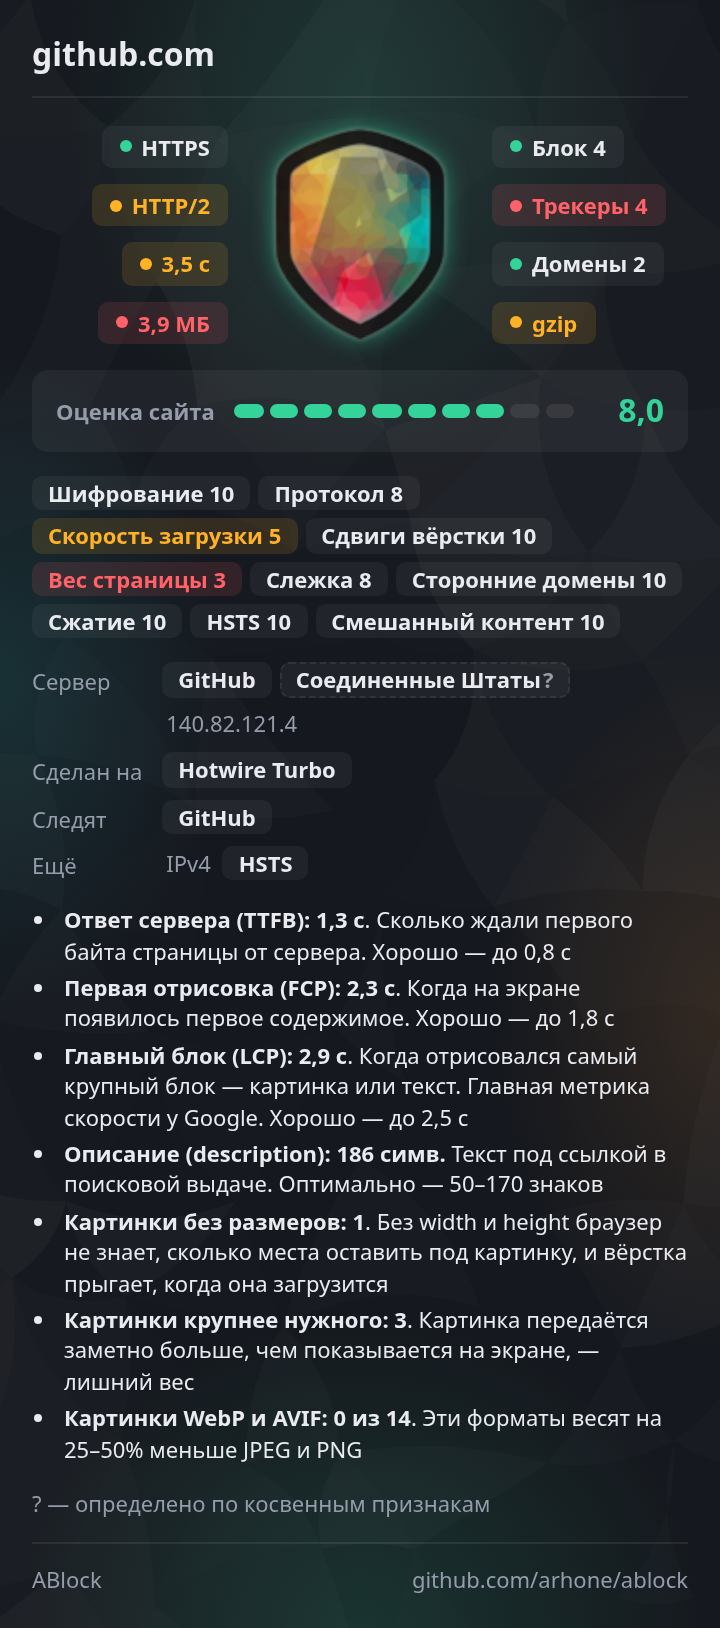
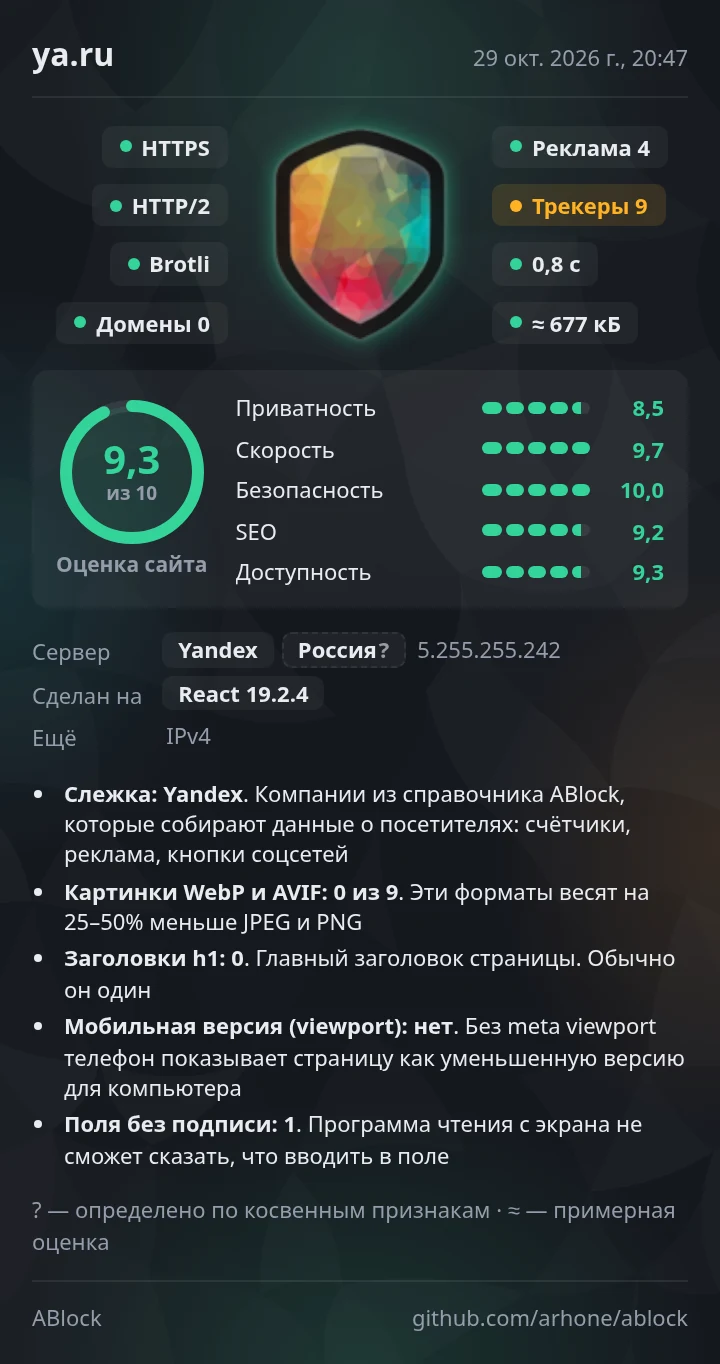
Сайт: свежий снимок отчёта (ya.ru) на главной, рамка фокуса контрастнее в светлой теме

diff --git a/docs/ru/index.html b/docs/ru/index.html
@@ -11,7 +11,7 @@
 <link rel="alternate" hreflang="x-default" href="https://ablock.arh.one/">
 <meta property="og:url" content="https://ablock.arh.one/ru/">
 <meta property="og:locale" content="ru_RU">
-<meta property="og:image:alt" content="Отчёт ABlock о сайте github.com">
+<meta property="og:image:alt" content="Отчёт ABlock о сайте ya.ru">
 <meta property="og:type" content="website">
 <meta property="og:title" content="ABlock — блокировщик рекламы и проверка сайтов">
 <meta property="og:description" content="Блокирует рекламу и трекеры и в один клик показывает, насколько сайт быстрый, безопасный и как за вами на нём следят.">
@@ -43,7 +43,7 @@
                 </div>
             </div>
             <figure class="report">
-                <img src="../site/img/report.webp" width="720" height="1628" alt="Отчёт ABlock о сайте github.com: значки HTTPS, HTTP/2, время загрузки и вес, оценка 8,0 из 10, сервер, движок и замечания">
+                <img src="../site/img/report.webp" width="720" height="1364" alt="Отчёт ABlock о сайте ya.ru: HTTPS, HTTP/2, Brotli; Реклама 4, Трекеры 9; загрузка 0,8 с, вес ≈677 кБ; оценка 9,3 из 10: приватность 8,5, скорость 9,7, безопасность 10, SEO 9,2, доступность 9,3; сервер Yandex, сделан на React">
                 <figcaption><b>Отчёт о сайте</b>картинкой или текстом — для коллег, подрядчиков и чатов</figcaption>
             </figure>
         </div>

diff --git a/docs/site/site.css b/docs/site/site.css
@@ -49,7 +49,7 @@ body {
     font: 17px/1.55 system-ui, -apple-system, "Segoe UI", Roboto, sans-serif;
 }
 a { color: var(--on-text); }
-a:focus-visible, .btn:focus-visible { outline: 3px solid var(--on); outline-offset: 3px; }
+a:focus-visible, .btn:focus-visible { outline: 3px solid var(--on-text); outline-offset: 3px; }
 .wrap { max-width: 1120px; margin: 0 auto; padding: 0 24px; }
 
 header.top { display: flex; align-items: center; gap: 24px; padding: 18px 0; }
